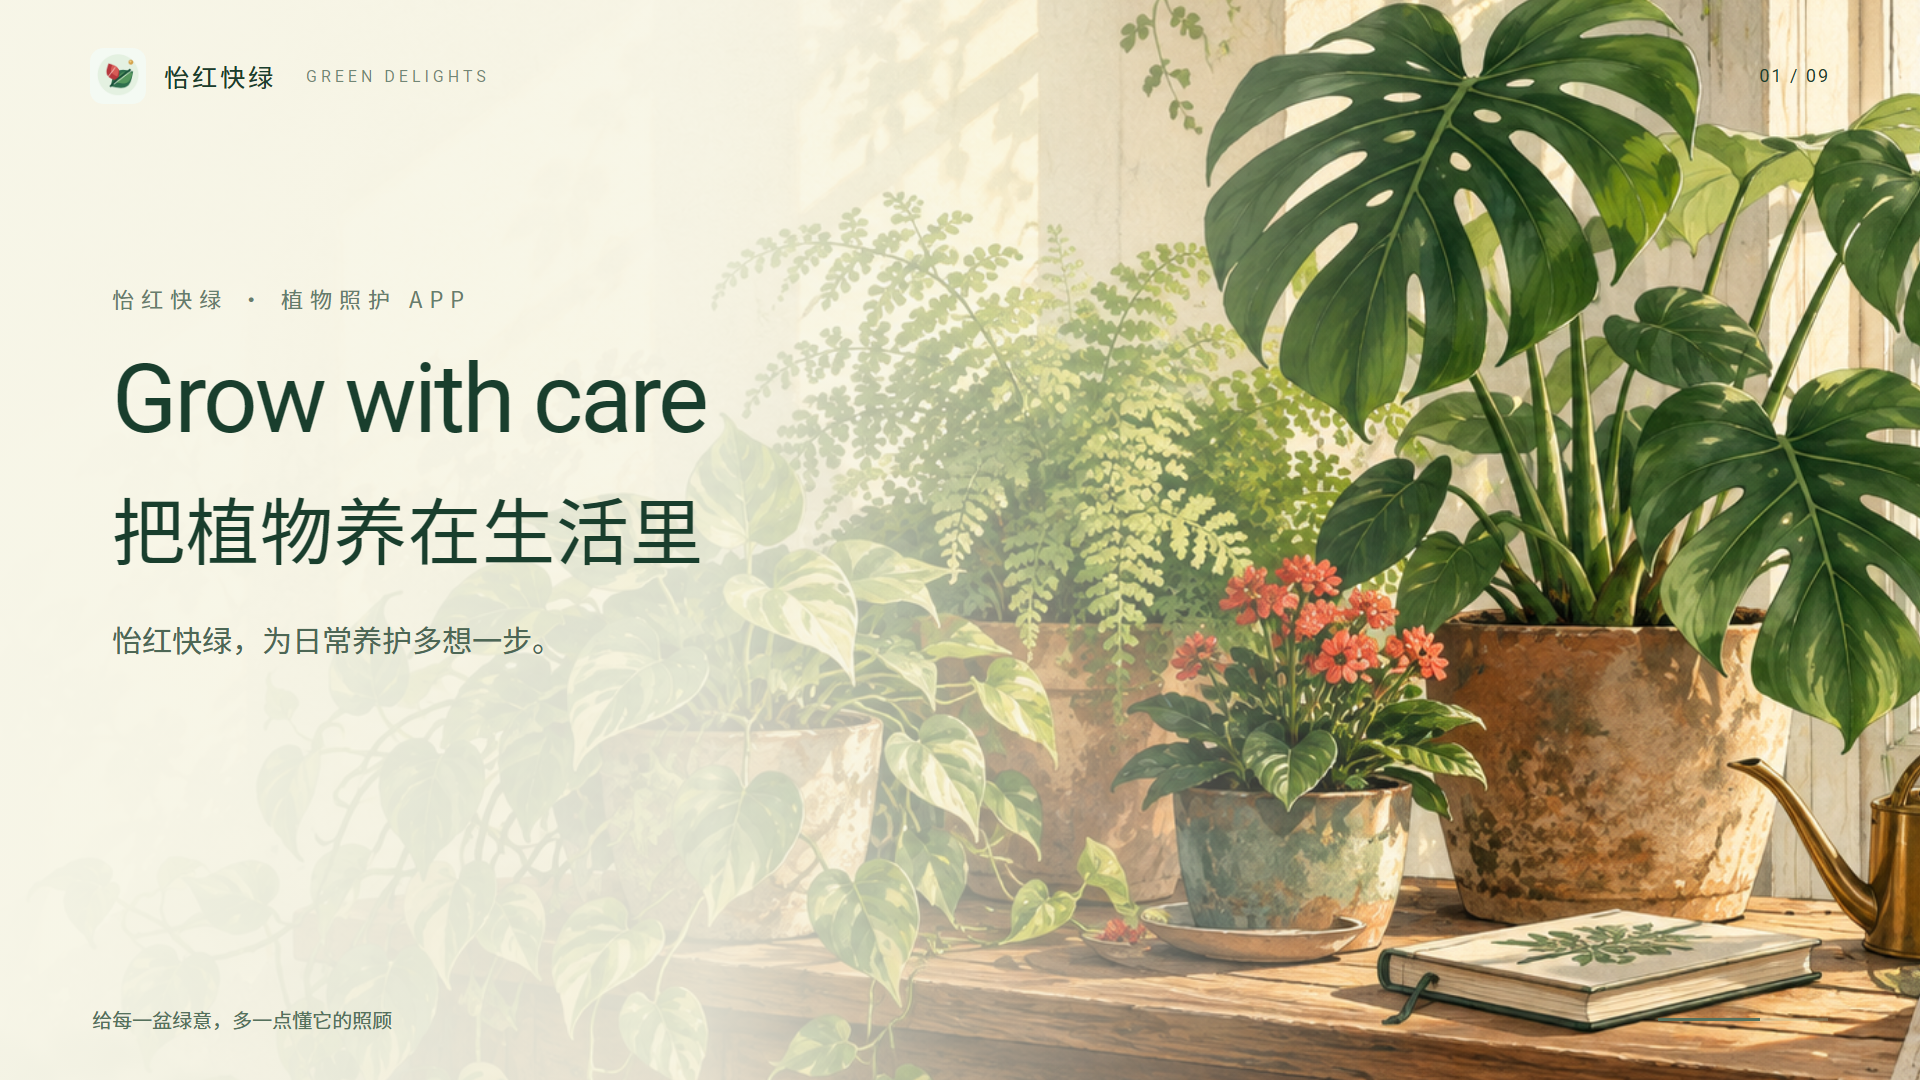
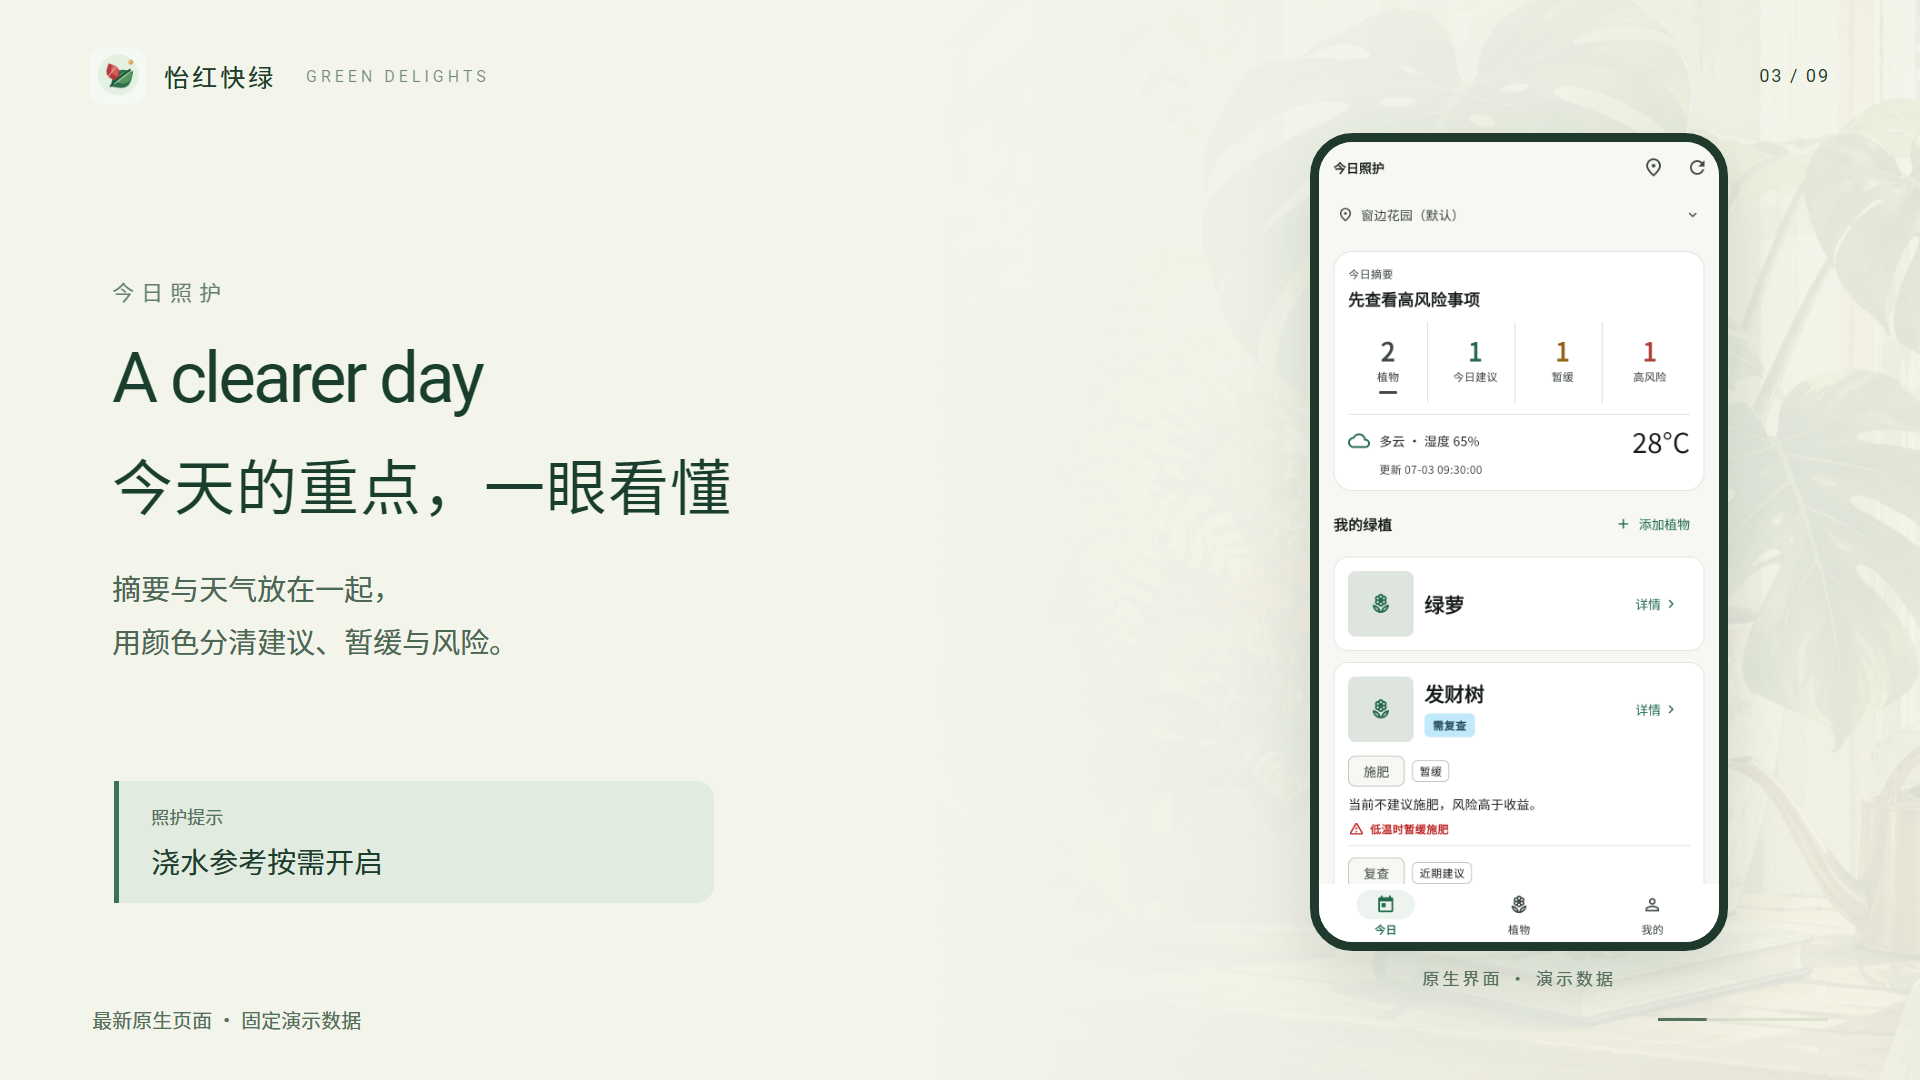
docs: prepare rc2 release and refresh native app media

diff --git a/README.md b/README.md
@@ -9,14 +9,14 @@
 把植物养在生活里，把照护记在手机里。<br />
 从一盆绿萝开始，慢慢拥有自己的小小花园。
 
-**[↓ 下载 Android 测试版](https://github.com/yaoyouzhong/green-delights-releases/releases/download/v0.3.2-rc.1/green-delights-v0.3.2-rc.1-10036-arm64.apk)**　·　[版本说明](https://github.com/yaoyouzhong/green-delights-releases/releases/tag/v0.3.2-rc.1)　·　[反馈问题](https://github.com/yaoyouzhong/green-delights-releases/issues)
+**[↓ 下载 Android 测试版](https://github.com/yaoyouzhong/green-delights-releases/releases/download/v0.3.2-rc.2/green-delights-v0.3.2-rc.2-10043-arm64.apk)**　·　[版本说明](https://github.com/yaoyouzhong/green-delights-releases/releases/tag/v0.3.2-rc.2)　·　[反馈问题](https://github.com/yaoyouzhong/green-delights-releases/issues)
 
-`Android 7.0+`　`arm64-v8a`　`手机本地运行`　`v0.3.2-rc.1`
+`Android 7.0+`　`arm64-v8a`　`手机本地运行`　`v0.3.2-rc.2`
 
 </div>
 
 > [!NOTE]
-> 这是公开测试版，**尚未完成真机覆盖升级与完整主流程验收**。安装前请导出备份，优先在测试设备使用。本仓库提供说明和安装包，应用源码保持私有。
+> 这是公开测试版，已在一台 Android 真机完成覆盖升级、启动和首页显示检查；完整业务主流程与其他机型仍需验证。安装前请导出备份，优先在测试设备使用。本仓库提供说明和安装包，应用源码保持私有。
 
 ## 🎬 48 秒了解怡红快绿
 
@@ -24,9 +24,23 @@ https://github.com/user-attachments/assets/0671dd83-f037-4e91-b02c-f2356107d2f1
 
 点击上方播放器即可在本页观看，建议打开声音。48 秒 · 原生界面演示 · 配乐与音效
 
-[下载 1080p 原片](https://github.com/yaoyouzhong/green-delights-releases/releases/download/v0.3.2-rc.1/green-delights-promo.mp4)
+[下载 1080p 原片](https://github.com/yaoyouzhong/green-delights-releases/releases/download/v0.3.2-rc.2/green-delights-promo.mp4)
 
 从今日照护、诊断与复查，到植物档案和本地备份，看看日常照护如何串起来。界面使用固定演示数据。
+
+## 这次更新：少一点打扰，多一点清楚
+
+- **首页更清楚：** 摘要和天气放在一起，统计按颜色区分，天气去掉重复标题，左侧天气与湿度、右侧突出温度，更新时间独立一行，地点栏与底栏更轻。
+- **浇水按需参考：** 默认关闭普通浇水提醒；关闭“浇水参考”后，首页也会隐藏对应内容。高风险和暂缓照护提示保留。
+- **复查按需展开：** 首页诊断复查说明默认折叠，点击“查看复查详情”再读完整内容。
+
+<p align="center">
+<img src="assets/today.png" alt="新版今日照护：摘要、彩色统计、天气与轻量导航。固定演示数据。" width="30%" />
+<img src="assets/plant.png" alt="植物档案与照护入口。固定演示数据。" width="30%" />
+<img src="assets/diagnosis.png" alt="诊断结论与处理方案。固定演示数据。" width="30%" />
+</p>
+
+截图由当前 App 页面渲染，使用固定演示数据，不包含个人照片或地点。
 
 ## 🌿 今天，这盆植物需要什么？
 
@@ -40,15 +54,15 @@ https://github.com/user-attachments/assets/0671dd83-f037-4e91-b02c-f2356107d2f1
 
 | 看懂它的需要 | 留住它的变化 |
 | :--- | :--- |
-| **💧 今日照护**<br />结合品种、环境与记录，提示浇水、施肥或检查。水培植物有对应的检查提示。 | **📷 成长相册**<br />保存成长照片和备注，在照片墙里回看一片新叶、一朵小花。 |
+| **💧 今日照护**<br />先看今日结论，再按颜色区分建议、暂缓与风险。浇水参考默认关闭，需要时再开启。 | **📷 成长相册**<br />保存成长照片和备注，在照片墙里回看一片新叶、一朵小花。 |
 | **🩺 诊断与复查**<br />用照片和症状辅助判断，记录救治行动，复查时比较前后变化。需自配视觉大模型。 | **📝 照护日记**<br />浇水、修剪、换盆、移动位置都留下记录，想回顾时有迹可循。 |
 | **🌤 摆放与换盆**<br />通过环境体检和根系评估，检查光照、通风、排水以及换盆条件。 | **🏡 多地点管理**<br />家里的阳台、办公室的窗台，分开管理，按地点逐盆确认照护。 |
 
 ### 一盆绿植的日常，可以很轻松
 
-**早上，先看一眼。** 打开今日照护，看看哪些植物值得留意。提示“检查盆土”时，摸一摸、看一看，再决定是否浇水。
+**早上，先看一眼。** 打开今日照护，先看摘要与天气，再看看哪些植物值得留意。浇水前摸一摸盆土、看看植物，再决定是否需要。
 
-**照顾过，就记下来。** 实际浇水、施肥或调整位置后再记录，让之后的建议有依据。普通提醒不必急着清空。
+**照顾过，就记下来。** 实际浇水、施肥或调整位置后再记录，让之后的建议有依据。不需要为了清空提醒而每天打卡。
 
 **有变化，拍张照片。** 新芽值得记录，黄叶也值得观察。需要帮助时，可用自己配置的视觉大模型辅助诊断，再按计划复查。
 
@@ -56,15 +70,15 @@ https://github.com/user-attachments/assets/0671dd83-f037-4e91-b02c-f2356107d2f1
 
 | 当前安装包 | |
 | :--- | :--- |
-| **版本** | `v0.3.2-rc.1` · 公开测试版 |
+| **版本** | `v0.3.2-rc.2` · 公开测试版 |
 | **适用设备** | Android 7.0 及以上，arm64-v8a |
-| **大小 / 构建号** | 约 22.5 MiB / `10036` |
-| **安装包** | [下载 APK](https://github.com/yaoyouzhong/green-delights-releases/releases/download/v0.3.2-rc.1/green-delights-v0.3.2-rc.1-10036-arm64.apk) |
-| **下载校验** | [SHA-256 清单](https://github.com/yaoyouzhong/green-delights-releases/releases/download/v0.3.2-rc.1/SHA256SUMS.txt) |
+| **大小 / 构建号** | 约 22.5 MiB / `10043` |
+| **安装包** | [下载 APK](https://github.com/yaoyouzhong/green-delights-releases/releases/download/v0.3.2-rc.2/green-delights-v0.3.2-rc.2-10043-arm64.apk) |
+| **下载校验** | [SHA-256 清单](https://github.com/yaoyouzhong/green-delights-releases/releases/download/v0.3.2-rc.2/SHA256SUMS.txt) |
 
 **第一次安装：** 下载 APK，在手机上打开，按 Android 提示允许该文件来源安装。GitHub 自动生成的 “Source code” 压缩包只有分发材料，不是安装包。
 
-**从旧版升级：** 先在“备份恢复”中导出备份，并保存到手机之外。保留旧 App，直接覆盖安装；不要先卸载。本包与旧版使用同一签名，构建号为 `10036`，如果你已安装更高构建号，请保留现有版本。
+**从旧版升级：** 先在“备份恢复”中导出备份，并保存到手机之外。保留旧 App，直接覆盖安装；不要先卸载。本包与旧版使用同一签名，构建号为 `10043`，如果你已安装更高构建号，请保留现有版本。
 
 <details>
 <summary><strong>如何核对下载文件？</strong></summary>
@@ -72,7 +86,7 @@ https://github.com/user-attachments/assets/0671dd83-f037-4e91-b02c-f2356107d2f1
 下载 APK 和 `SHA256SUMS.txt`。在 Windows PowerShell 中运行下面的命令，将输出的 SHA-256 与清单中的 APK 项比较：
 
 ```powershell
-Get-FileHash -Algorithm SHA256 .\green-delights-v0.3.2-rc.1-10036-arm64.apk
+Get-FileHash -Algorithm SHA256 .\green-delights-v0.3.2-rc.2-10043-arm64.apk
 ```
 
 </details>

diff --git a/RELEASE_NOTES.md b/RELEASE_NOTES.md
@@ -1,24 +1,26 @@
-# 怡红快绿 v0.3.2-rc.1
+# 怡红快绿 v0.3.2-rc.2 · 少一点打扰，多一点清楚
 
-首个公开分发的测试版本。安装包可在手机本地运行，无需电脑后端；天气和视觉大模型凭据由使用者自行配置。应用源码保持私有。
+本版改善日常照护体验，继续作为公开测试版分发。应用源码保持私有，植物与照护记录在手机本地保存。
 
 ## 本版变化
 
-- 新增换盆与根系评估、摆放环境体检、按地点逐盆确认的批量照护。
-- 完善诊断问诊、救治行动、复查和前后照片对比，中断后可恢复任务。
-- 改善诊断详情、照护历史、照片去重以及剪枝指导失败重试体验。
-- 完善水培植物提示及每日照护提醒恢复。
+- 首页摘要与天气合并，先给照护结论；植物、建议、暂缓和高风险统计分别使用中性、绿色、琥珀色和红色。
+- 天气去掉重复标题，左侧天气与湿度、右侧突出温度，更新时间独立一行；地址栏与底部导航更轻量，统一卡片、文字和操作入口样式。
+- 普通浇水参考默认关闭，不计入首页待处理建议；关闭对应设置后首页同步隐藏。高风险和阻止浇水的提示仍保留。
+- 通知仅针对有效照护事项，不再为空列表发送泛化提醒，也不按固定日历重复旧建议。
+- 首页诊断复查说明默认折叠，点击后查看详细内容；植物档案快捷入口适配窄屏和放大字体。
+- 更新图文首页、真实界面演示截图与 48 秒宣传片。公开素材全部使用固定演示数据。
 
 ## 安装
 
-下载 `green-delights-v0.3.2-rc.1-10036-arm64.apk`。适用于 Android 7.0 及以上的 arm64-v8a 手机；实际构建号为 `10036`。安装前请导出旧版备份，保留旧 App 并覆盖安装；不要先卸载。
+下载 `green-delights-v0.3.2-rc.2-10043-arm64.apk`，支持 Android 7.0+、arm64-v8a。保留旧 App，使用同签名安装包覆盖升级；不要先卸载。升级前建议导出备份。
 
-`SHA256SUMS.txt` 提供安装包与第三方许可声明的 SHA-256。GitHub 自动生成的 Source code 压缩包仅包含分发说明，不是安装包。
+`SHA256SUMS.txt` 包含本次附件的 SHA-256。GitHub 自动生成的 Source code 压缩包仅包含分发资料，不是安装包。
 
-## 验证范围与限制
+## 验证范围
 
-本机已通过移动端静态检查、150 项 Flutter 测试，以及后端 100 项非数据库测试。后端数据库集成测试未执行。
+静态检查及 156 项 Flutter 测试通过，另行验证了最新宣传截图与普通、放大字号布局。已在一台 Android 真机完成覆盖升级、启动和首页显示检查，原有植物数据可见。
 
-**本候选包尚未完成真机覆盖升级、真实数据保留、相册/拍照入口、通知和真实模型调用的完整验收。** 这是 Pre-release 测试版，不能据本机测试推断所有手机都已验证。长期通知和大量照片性能仍需实际观察。
+本轮未重新执行相机/相册、长期通知、完整备份恢复或真实大模型端到端验收；这些能力不能由首页检查推断通过。尚无 iOS 版和云同步。
 
-安装、自配凭据和数据说明见仓库 README 与 DATA.md。反馈请提供手机型号、系统版本、构建号和复现步骤，勿上传凭据或完整备份。
+[查看图文介绍](https://github.com/yaoyouzhong/green-delights-releases) · [反馈问题](https://github.com/yaoyouzhong/green-delights-releases/issues)

diff --git a/VIDEO.md b/VIDEO.md
@@ -1,11 +1,15 @@
 # 怡红快绿 · 产品宣传片
 
-48 秒了解今日照护、照片诊断、植物档案与本地备份。点击播放器即可观看，建议打开声音。
+48 秒了解新版照护摘要、照片诊断、植物档案与本地备份。点击播放器即可观看，建议打开声音。
 
 https://github.com/user-attachments/assets/0671dd83-f037-4e91-b02c-f2356107d2f1
 
-**[下载 1080p 原片](https://github.com/yaoyouzhong/green-delights-releases/releases/download/v0.3.2-rc.1/green-delights-promo.mp4)** · MP4 · 48 秒 · 约 17.3 MiB
+**[下载 1080p 原片](https://github.com/yaoyouzhong/green-delights-releases/releases/download/v0.3.2-rc.2/green-delights-promo.mp4)** · MP4 · 48 秒
 
 影片使用原生 App 页面与固定演示数据。照片诊断需自行配置联网大模型服务，结果用于辅助判断。成长主题插画不代表实拍养护前后对比。
 
-[← 返回项目首页](README.md) · [下载 Android 测试版](https://github.com/yaoyouzhong/green-delights-releases/releases/tag/v0.3.2-rc.1)
+本版已同步摘要下方的左右天气布局、彩色统计筛选与轻量导航。宣传片保留原创配乐和操作音效。
+
+画面使用项目植物主题插画与原生 UI；字体为 Noto Sans CJK SC（SIL OFL）及 Roboto（Apache 2.0）。配乐由代码原创合成，操作音效来自归藏 product video skill 的原创内置素材；未使用外部录音或个人植物照片。
+
+[← 返回项目首页](README.md) · [下载 Android 测试版](https://github.com/yaoyouzhong/green-delights-releases/releases/tag/v0.3.2-rc.2)

diff --git a/CHANGELOG.md b/CHANGELOG.md
@@ -1,5 +1,16 @@
 # 更新记录
 
+## v0.3.2-rc.2 — 2026-09-21
+
+- 首页摘要与天气合并，先给照护结论；植物、建议、暂缓和高风险统计分别使用中性、绿色、琥珀色和红色。
+- 天气去掉重复标题，左侧天气与湿度、右侧突出温度，更新时间独立一行；地址栏与底部导航更轻量，统一卡片、文字和操作入口样式。
+- 普通浇水参考默认关闭，不计入首页待处理建议；关闭对应设置后首页同步隐藏。高风险和阻止浇水的提示仍保留。
+- 通知仅针对有效照护事项，不再为空列表发送泛化提醒，也不按固定日历重复旧建议。
+- 首页诊断复查说明默认折叠，点击后查看详细内容；植物档案快捷入口适配窄屏和放大字体。
+- 更新图文首页、真实界面演示截图与 48 秒宣传片。公开素材全部使用固定演示数据。
+
+Android 构建号：10043。静态检查与 156 项 Flutter 测试通过；一台真机覆盖升级及首页显示已检查，完整业务与多机型验收仍待完成。
+
 ## v0.3.2-rc.1 — 2026-09-10
 
 相较于 v0.3.1：

diff --git a/DATA.md b/DATA.md
@@ -1,6 +1,6 @@
 # 数据与联网说明
 
-适用版本：v0.3.2-rc.1。
+适用版本：v0.3.2-rc.2。
 
 ## 本地数据
 
